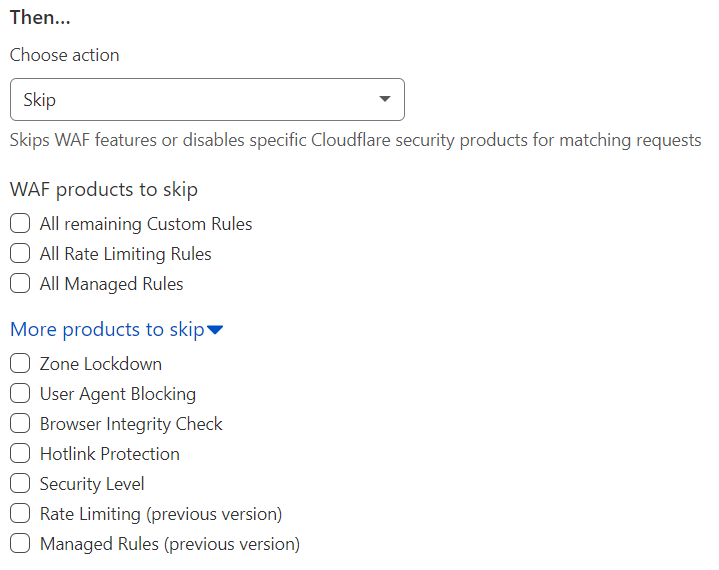
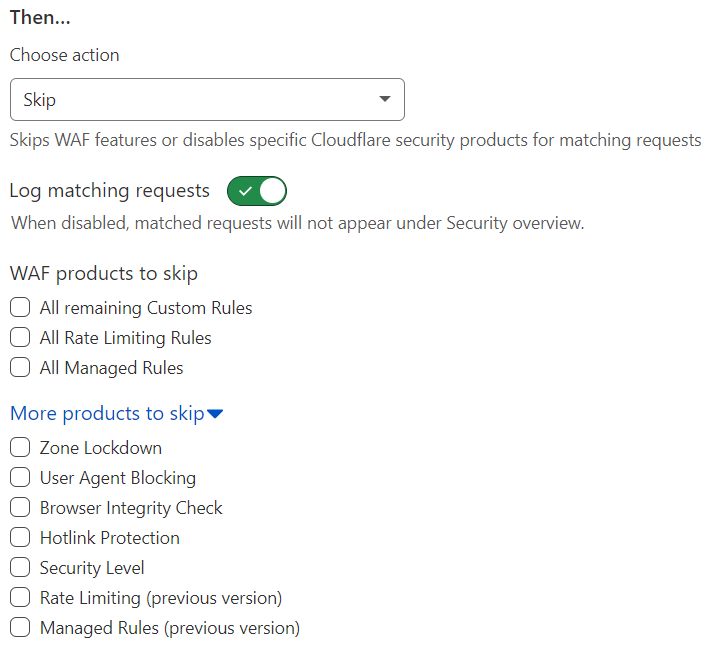
[WAF] Optional logging in custom rules with Skip action (#4738)

Changed region(s): [[0.0, 0.0, 0.9791, 0.5965], [0.0, 0.6263, 0.4284, 0.9842]]

diff --git a/content/waf/custom-rules/skip/api-examples.md b/content/waf/custom-rules/skip/api-examples.md
@@ -20,31 +20,90 @@ Take the following into account regarding the provided examples:
 
 *   The `<RULESET_ID>` value is the ID of the entry point ruleset of the `http_request_firewall_custom` phase. For details on obtaining this ruleset ID, refer to [List and view rulesets](/ruleset-engine/rulesets-api/view/). If you do not have such a ruleset yet, you can use the [Update zone entry point ruleset](/ruleset-engine/rulesets-api/update/) API operation to create the entry point ruleset with a skip rule in a single operation.
 
-*   The examples in this page add a new rule at the zone level with the `skip` action. If you wish to edit an existing rule, refer to [Update a rule in a ruleset](/ruleset-engine/rulesets-api/update-rule/) for more information.
-
 *   Although each example only includes one action parameter, you can use several skip options in the same rule by specifying the `ruleset`, `phases`, and `products` action parameters simultaneously.
 
 ## Skip the remaining rules in the current ruleset
 
-This example uses the [Add individual rule](/ruleset-engine/rulesets-api/add-rule/) API operation to add a rule that skips the remaining rules in the current ruleset:
+This example uses the [Update zone entry point ruleset](/ruleset-engine/rulesets-api/update/) API operation to set all the rules in the entry point ruleset of the `http_request_firewall_custom` phase. The first rule, configured with the `skip` action, will skip all remaining rules in the current ruleset based on the request URI path:
 
 ```json
 ---
-header: Request
-highlight: [6,7,8,9]
+header: Example request
+highlight: [7,8,9,10]
 ---
-curl -X POST \
-"https://api.cloudflare.com/client/v4/zones/<ZONE_ID>/rulesets/<RULESET_ID>/rules" \
+curl -X PUT \
+"https://api.cloudflare.com/client/v4/zones/<ZONE_ID>/rulesets/phases/http_request_firewall_custom/entrypoint" \
 -H "Authorization: Bearer <API_TOKEN>" \
 -d '{
-  "action": "skip",
-  "action_parameters": {
-    "ruleset": "current"
-  },
-  "expression": "http.request.uri.path contains \"/skip-current-ruleset/\"",
-  "description": ""
+  "rules": [
+    {
+      "action": "skip",
+      "action_parameters": {
+        "ruleset": "current"
+      },
+      "expression": "http.request.uri.path contains \"/skip-current-ruleset/\"",
+      "description": ""
+    },
+    {
+      "action": "managed_challenge",
+      "expression": "ip.geoip.country eq \"GB\" and cf.threat_score > 40",
+      "description": "Challenge UK requests with threat score over 40",
+    }
+  ]
 }'
 ```
+
+<details>
+<summary>Example response</summary>
+<div>
+
+```json
+{
+  "result": {
+    "id": "<RULESET_ID>",
+    "name": "default",
+    "description": "",
+    "kind": "zone",
+    "version": "4",
+    "rules": [
+      {
+        "id": "<RULE_1_ID>",
+        "version": "1",
+        "action": "skip",
+        "action_parameters": {
+          "ruleset": "current"
+        },
+        "expression": "http.request.uri.path contains \"/skip-current-ruleset/\"",
+        "description": "",
+        "last_updated": "2022-05-08T08:48:50.171838Z",
+        "ref": "<RULE_1_REF>",
+        "enabled": true,
+        "logging": {
+          "enabled": true
+        }
+      },
+      {
+        "id": "<RULE_2_ID>",
+        "version": "1",
+        "action": "managed_challenge",
+        "expression": "ip.geoip.country eq \"GB\" and cf.threat_score > 40",
+        "description": "Challenge UK requests with threat score over 40",
+        "last_updated": "2022-05-08T08:48:50.171838Z",
+        "ref": "<RULE_2_REF>",
+        "enabled": true
+      }
+    ],
+    "last_updated": "2022-05-08T08:48:50.171838Z",
+    "phase": "http_request_firewall_custom"
+  },
+  "success": true,
+  "errors": [],
+  "messages": []
+}
+```
+
+</div>
+</details>
 
 ## Skip a phase
 
@@ -52,8 +111,8 @@ This example uses the [Add individual rule](/ruleset-engine/rulesets-api/add-rul
 
 ```json
 ---
-header: Request
-highlight: [6,7,8,9,10,11]
+header: Example request
+highlight: [5,6,7,8,9,10]
 ---
 curl -X POST \
 "https://api.cloudflare.com/client/v4/zones/<ZONE_ID>/rulesets/<RULESET_ID>/rules" \
@@ -72,14 +131,47 @@ curl -X POST \
 
 Refer to [Available skip options](/waf/custom-rules/skip/options/) for the list of phases you can skip.
 
+
+## Skip a phase and do not log matching requests
+
+This example uses the [Add individual rule](/ruleset-engine/rulesets-api/add-rule/) API operation to add a rule that:
+
+* Skips the `http_ratelimit` phase
+* Disables logging for requests matching this rule
+
+```json
+---
+header: Example request
+highlight: [5,6,7,8,9,10,11,12,13]
+---
+curl -X POST \
+"https://api.cloudflare.com/client/v4/zones/<ZONE_ID>/rulesets/<RULESET_ID>/rules" \
+-H "Authorization: Bearer <API_TOKEN>" \
+-d '{
+  "action": "skip",
+  "action_parameters": {
+    "phases": [
+      "http_ratelimit"
+    ]
+  },
+  "logging": {
+    "enabled": false
+  },
+  "expression": "http.request.uri.path contains \"/disable-logging/\"",
+  "description": ""
+}'
+```
+
+Refer to [Available skip options: Logging](/waf/custom-rules/skip/options/#logging) for more information on disabling logging for requests that match a skip rule.
+
 ## Skip security products
 
 This example uses the [Add individual rule](/ruleset-engine/rulesets-api/add-rule/) API operation to add a rule that skips the Zone Lockdown and User Agent Blocking products:
 
 ```json
 ---
-header: Request
-highlight: [6,7,8,9,10,11,12]
+header: Example request
+highlight: [5,6,7,8,9,10,11]
 ---
 curl -X POST \
 "https://api.cloudflare.com/client/v4/zones/<ZONE_ID>/rulesets/<RULESET_ID>/rules" \

diff --git a/content/waf/custom-rules/skip/_index.md b/content/waf/custom-rules/skip/_index.md
@@ -4,6 +4,7 @@ pcx-content-type: how-to
 weight: 4
 meta:
   title: Configure a custom rule with the Skip action
+layout: single
 ---
 
 # Configure a custom rule with the Skip action
@@ -24,9 +25,7 @@ For more information on the available options, refer to [Available skip options]
 
 5. Under **Choose action**, select *Skip* from the dropdown.
 
-    <div class="large-img">
-      <img alt="Skip action options in custom rules" src="/waf/static/custom-rules/skip-action-options.png"/>
-    </div>
+    ![Available Skip action options when configuring a custom rule](/waf/static/custom-rules/skip-action-options.png)
 
 6. Configure the desired [skip options](/waf/custom-rules/skip/options/).
 

diff --git a/content/waf/custom-rules/skip/options.md b/content/waf/custom-rules/skip/options.md
@@ -58,3 +58,16 @@ Currently, you cannot skip Bot Fight Mode or Super Bot Fight Mode. For more info
 {{</Aside>}}
 
 {{</definitions>}}
+
+## Logging
+
+{{<definitions>}}
+
+- **Log requests matching the skip rule**
+
+  - Dashboard option: **Log matching requests**.
+  - API action parameter: `logging` > `enabled` (boolean, optional).
+  - When disabled, Cloudflare will not log any requests matching the current skip rule, and these requests will not appear in [Firewall Analytics](/waf/analytics/).
+  - If you do not specify this option in the API, the default value is `true` for custom rules with the skip action (logs requests matching the skip rule).
+
+{{</definitions>}}
